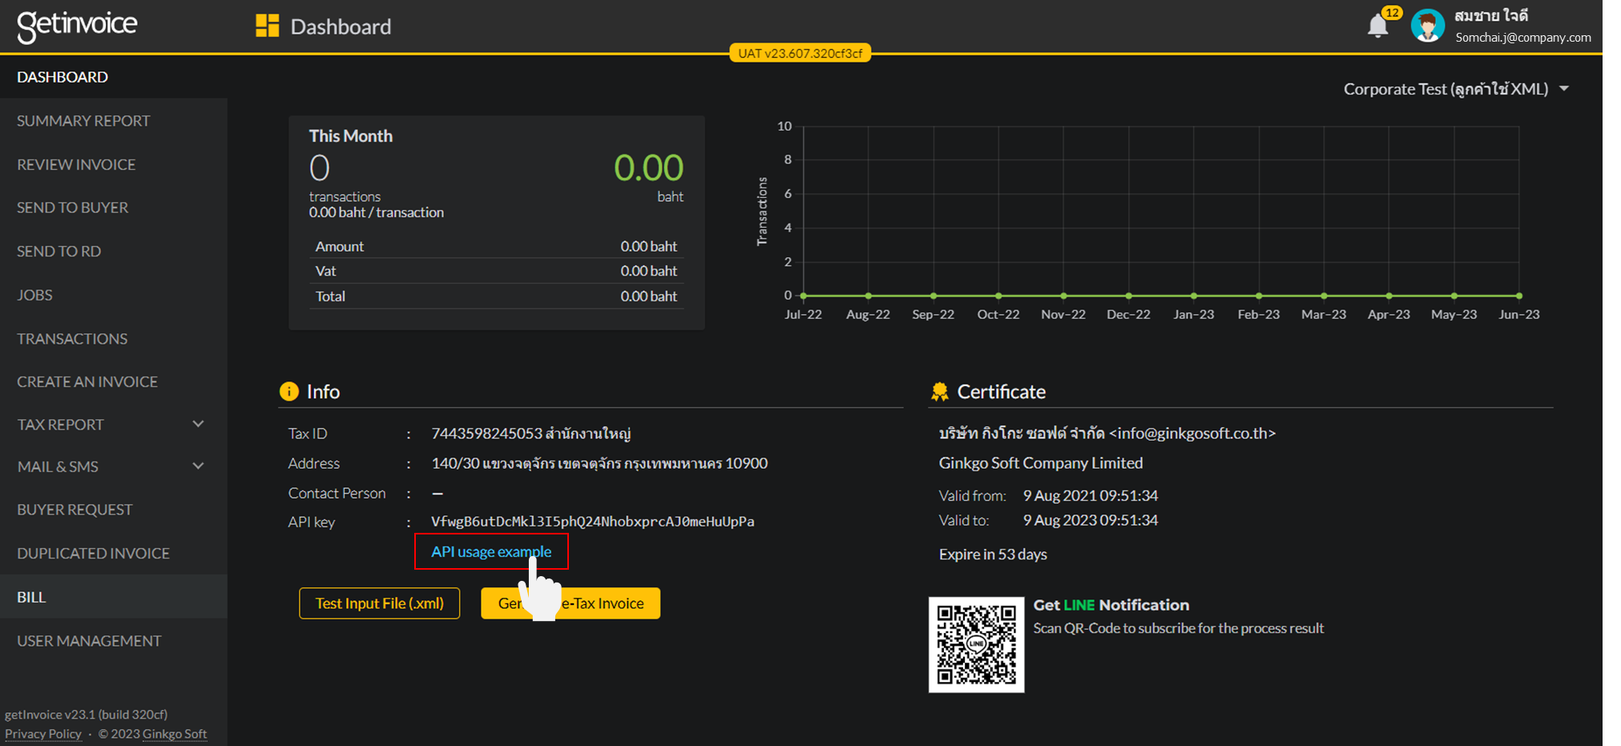
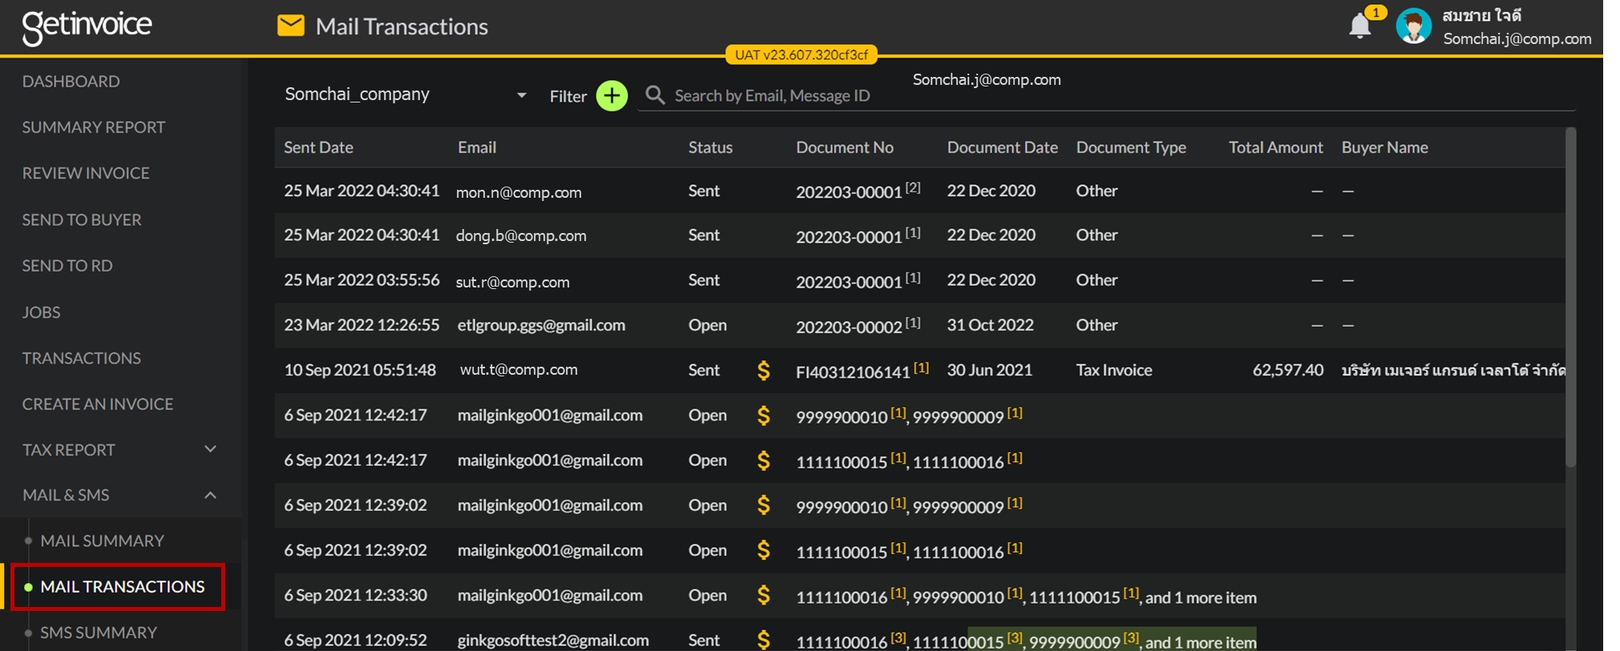
GITBOOK-15: 's Jun 22 changes

diff --git a/getinvoice/send-to-buyer/sms-1.md b/getinvoice/send-to-buyer/sms-1.md
@@ -18,20 +18,20 @@
 
 ตาราง : อธิบายข้อมูลหน้าจอ SEND TO BUYER
 
-| ลำดับ | คอลัมน์                                                                                          | รายละเอียด                                                                                                                                                                                                                                                                                                                                                                                                                                                                                                                                                                                                                   |
-| ----- | ------------------------------------------------------------------------------------------------ | ---------------------------------------------------------------------------------------------------------------------------------------------------------------------------------------------------------------------------------------------------------------------------------------------------------------------------------------------------------------------------------------------------------------------------------------------------------------------------------------------------------------------------------------------------------------------------------------------------------------------------- |
-| 1.    | Email                                                                                            | <p>สถานะการส่งอีเมลให้ลูกค้า<br> <img src="../../.gitbook/assets/image (49).png" alt="">คือ ส่งอีเมลสำเร็จ<br><img src="../../.gitbook/assets/image (36).png" alt=""> คือ ส่งอีเมลไม่สำเร็จ<br><img src="../../.gitbook/assets/image (6) (1).png" alt=""> คือ กำลังส่งอีเมล</p><p> <img src="../../.gitbook/assets/image (89).png" alt="">คือ รอส่งอีเมล<br> <img src="../../.gitbook/assets/image (22).png" alt="">คือ ไม่มีอีเมลผู้ซื้อ<br><img src="../../.gitbook/assets/image (96).png" alt=""> คือ Endpoint request timed out</p><p> <img src="../../.gitbook/assets/image (39).png" alt=""> คือ สถานะห้ามส่งอีเมล</p> |
-| 2.    | SMS                                                                                              | <p>สถานะการส่ง SMS ถึงลูกค้า<br><img src="../../.gitbook/assets/image (84).png" alt=""> คือ ส่ง SMS สำเร็จ<br> <img src="../../.gitbook/assets/image (73).png" alt=""> คือ ส่ง SMS ไม่สำเร็จ<br> <img src="../../.gitbook/assets/image (45).png" alt=""> คือ ไม่มีเบอร์โทรศัพท์</p><p> <img src="../../.gitbook/assets/image (79).png" alt=""> คือ สถานะห้ามส่ง SMS</p>                                                                                                                                                                                                                                                      |
-| 3.    | zDOX                                                                                             | <p>สถานะการอัปโหลดไฟล์ขึ้น zDOX ของลูกค้า<br><img src="../../.gitbook/assets/image (76).png" alt=""> คือ อัปโหลดขึ้น zDOX สำเร็จ<br> <img src="../../.gitbook/assets/image (13) (1).png" alt=""> คือ อัปโหลดขึ้น zDOX ไม่สำเร็จ</p><p><img src="../../.gitbook/assets/image (8) (1).png" alt=""> คือ ไม่มีอีเมล</p>                                                                                                                                                                                                                                                                                                          |
-| 4.    | ![](<../../.gitbook/assets/image (12) (1).png>) หรือ ![](<../../.gitbook/assets/image (94).png>) | ดูไฟล์ข้อมูล PDF หรือ XML                                                                                                                                                                                                                                                                                                                                                                                                                                                                                                                                                                                                    |
-| 5.    | Item ID                                                                                          | Auto Running getInvoice                                                                                                                                                                                                                                                                                                                                                                                                                                                                                                                                                                                                      |
-| 6.    | Document No.                                                                                     | หมายเลขเอกสาร                                                                                                                                                                                                                                                                                                                                                                                                                                                                                                                                                                                                                |
-| 7.    | Document Date                                                                                    | วันที่ออกหมายเลขเอกสาร                                                                                                                                                                                                                                                                                                                                                                                                                                                                                                                                                                                                       |
-| 8.    | Document Type                                                                                    | ประเภทเอกสาร                                                                                                                                                                                                                                                                                                                                                                                                                                                                                                                                                                                                                 |
-| 9.    | Total Amount                                                                                     | จำนวนเงินรวมภาษี                                                                                                                                                                                                                                                                                                                                                                                                                                                                                                                                                                                                             |
-| 10.   | Buyer Name                                                                                       | ชื่อลูกค้า                                                                                                                                                                                                                                                                                                                                                                                                                                                                                                                                                                                                                   |
-| 11.   | Buyer Email                                                                                      | อีเมลลูกค้า                                                                                                                                                                                                                                                                                                                                                                                                                                                                                                                                                                                                                  |
-| 12.   | Telephone Number                                                                                 | เบอร์โทรศัพท์ลูกค้า                                                                                                                                                                                                                                                                                                                                                                                                                                                                                                                                                                                                          |
-| 13.   | Generate Date                                                                                    | วันที่นำเข้าข้อมูล                                                                                                                                                                                                                                                                                                                                                                                                                                                                                                                                                                                                           |
-| 14.   | Source                                                                                           | ชื่อไฟล์ที่นำเข้า                                                                                                                                                                                                                                                                                                                                                                                                                                                                                                                                                                                                            |
-| 15.   | Error                                                                                            | ข้อความแจ้งเตือน                                                                                                                                                                                                                                                                                                                                                                                                                                                                                                                                                                                                             |
+| ลำดับ | คอลัมน์                                                                                          | รายละเอียด                                                                                                                                                                                                                                                                                                                                                                                                                                                                                                                                                                                                                       |
+| ----- | ------------------------------------------------------------------------------------------------ | -------------------------------------------------------------------------------------------------------------------------------------------------------------------------------------------------------------------------------------------------------------------------------------------------------------------------------------------------------------------------------------------------------------------------------------------------------------------------------------------------------------------------------------------------------------------------------------------------------------------------------- |
+| 1.    | Email                                                                                            | <p>สถานะการส่งอีเมลให้ลูกค้า<br> <img src="../../.gitbook/assets/image (49).png" alt="">คือ ส่งอีเมลสำเร็จ<br><img src="../../.gitbook/assets/image (36).png" alt=""> คือ ส่งอีเมลไม่สำเร็จ<br><img src="../../.gitbook/assets/image (6) (1) (1).png" alt=""> คือ กำลังส่งอีเมล</p><p> <img src="../../.gitbook/assets/image (89).png" alt="">คือ รอส่งอีเมล<br> <img src="../../.gitbook/assets/image (22).png" alt="">คือ ไม่มีอีเมลผู้ซื้อ<br><img src="../../.gitbook/assets/image (96).png" alt=""> คือ Endpoint request timed out</p><p> <img src="../../.gitbook/assets/image (39).png" alt=""> คือ สถานะห้ามส่งอีเมล</p> |
+| 2.    | SMS                                                                                              | <p>สถานะการส่ง SMS ถึงลูกค้า<br><img src="../../.gitbook/assets/image (84).png" alt=""> คือ ส่ง SMS สำเร็จ<br> <img src="../../.gitbook/assets/image (73).png" alt=""> คือ ส่ง SMS ไม่สำเร็จ<br> <img src="../../.gitbook/assets/image (45).png" alt=""> คือ ไม่มีเบอร์โทรศัพท์</p><p> <img src="../../.gitbook/assets/image (79).png" alt=""> คือ สถานะห้ามส่ง SMS</p>                                                                                                                                                                                                                                                          |
+| 3.    | zDOX                                                                                             | <p>สถานะการอัปโหลดไฟล์ขึ้น zDOX ของลูกค้า<br><img src="../../.gitbook/assets/image (76).png" alt=""> คือ อัปโหลดขึ้น zDOX สำเร็จ<br> <img src="../../.gitbook/assets/image (13) (1).png" alt=""> คือ อัปโหลดขึ้น zDOX ไม่สำเร็จ</p><p><img src="../../.gitbook/assets/image (8) (1).png" alt=""> คือ ไม่มีอีเมล</p>                                                                                                                                                                                                                                                                                                              |
+| 4.    | ![](<../../.gitbook/assets/image (12) (1).png>) หรือ ![](<../../.gitbook/assets/image (94).png>) | ดูไฟล์ข้อมูล PDF หรือ XML                                                                                                                                                                                                                                                                                                                                                                                                                                                                                                                                                                                                        |
+| 5.    | Item ID                                                                                          | Auto Running getInvoice                                                                                                                                                                                                                                                                                                                                                                                                                                                                                                                                                                                                          |
+| 6.    | Document No.                                                                                     | หมายเลขเอกสาร                                                                                                                                                                                                                                                                                                                                                                                                                                                                                                                                                                                                                    |
+| 7.    | Document Date                                                                                    | วันที่ออกหมายเลขเอกสาร                                                                                                                                                                                                                                                                                                                                                                                                                                                                                                                                                                                                           |
+| 8.    | Document Type                                                                                    | ประเภทเอกสาร                                                                                                                                                                                                                                                                                                                                                                                                                                                                                                                                                                                                                     |
+| 9.    | Total Amount                                                                                     | จำนวนเงินรวมภาษี                                                                                                                                                                                                                                                                                                                                                                                                                                                                                                                                                                                                                 |
+| 10.   | Buyer Name                                                                                       | ชื่อลูกค้า                                                                                                                                                                                                                                                                                                                                                                                                                                                                                                                                                                                                                       |
+| 11.   | Buyer Email                                                                                      | อีเมลลูกค้า                                                                                                                                                                                                                                                                                                                                                                                                                                                                                                                                                                                                                      |
+| 12.   | Telephone Number                                                                                 | เบอร์โทรศัพท์ลูกค้า                                                                                                                                                                                                                                                                                                                                                                                                                                                                                                                                                                                                              |
+| 13.   | Generate Date                                                                                    | วันที่นำเข้าข้อมูล                                                                                                                                                                                                                                                                                                                                                                                                                                                                                                                                                                                                               |
+| 14.   | Source                                                                                           | ชื่อไฟล์ที่นำเข้า                                                                                                                                                                                                                                                                                                                                                                                                                                                                                                                                                                                                                |
+| 15.   | Error                                                                                            | ข้อความแจ้งเตือน                                                                                                                                                                                                                                                                                                                                                                                                                                                                                                                                                                                                                 |

diff --git a/getinvoice/send-to-rd-the-revenue-department/export.md b/getinvoice/send-to-rd-the-revenue-department/export.md
@@ -14,17 +14,17 @@
 
 ตาราง : อธิบายข้อมูลหน้า SEND TO RD
 
-| ลำดับ | คอลัมน์                                     | รายละเอียด                                                                                                                                                                                                                                                                                                                                                                                                 |
-| ----- | ------------------------------------------- | ---------------------------------------------------------------------------------------------------------------------------------------------------------------------------------------------------------------------------------------------------------------------------------------------------------------------------------------------------------------------------------------------------------- |
-| 1.    | Sent                                        | <p>สถานะการส่งข้อมูลอิเล็กทรอนิกส์ไปที่สรรพากร<br><img src="../../.gitbook/assets/image (3) (1).png" alt=""> คือ ส่งสรรพากรสำเร็จ<br> <img src="../../.gitbook/assets/image (50).png" alt="">คือ ส่งสรรพากรไม่สำเร็จ<br> <img src="../../.gitbook/assets/image (27).png" alt="">คือ รอ Response จากสรรพากร<br> <img src="../../.gitbook/assets/image (28).png" alt="">คือ ผู้ใช้งานทำการ Reject รายการ</p> |
-| 2.    | ![](<../../.gitbook/assets/image (14).png>) | ดูไฟล์ข้อมูล XML                                                                                                                                                                                                                                                                                                                                                                                           |
-| 3.    | Item ID                                     | Auto Running getInvoice                                                                                                                                                                                                                                                                                                                                                                                    |
-| 4.    | Document No.                                | หมายเลขเอกสาร                                                                                                                                                                                                                                                                                                                                                                                              |
-| 5.    | Document Date                               | วันที่ออกหมายเลขเอกสาร                                                                                                                                                                                                                                                                                                                                                                                     |
-| 6.    | Document Type                               | ประเภทเอกสาร                                                                                                                                                                                                                                                                                                                                                                                               |
-| 7.    | Total Amount                                | จำนวนเงินรวมภาษี                                                                                                                                                                                                                                                                                                                                                                                           |
-| 8.    | Buyer Name                                  | ชื่อลูกค้า                                                                                                                                                                                                                                                                                                                                                                                                 |
-| 9.    | Tax ID                                      | เลขประจำตัวผู้เสียภาษีลูกค้า                                                                                                                                                                                                                                                                                                                                                                               |
-| 10.   | Generate Date                               | วันที่นำเข้าข้อมูล                                                                                                                                                                                                                                                                                                                                                                                         |
-| 11.   | Source                                      | ชื่อไฟล์ที่นำเข้า                                                                                                                                                                                                                                                                                                                                                                                          |
-| 12.   | Error                                       | ข้อความแจ้งเตือน                                                                                                                                                                                                                                                                                                                                                                                           |
+| ลำดับ | คอลัมน์                                     | รายละเอียด                                                                                                                                                                                                                                                                                                                                                                                                     |
+| ----- | ------------------------------------------- | -------------------------------------------------------------------------------------------------------------------------------------------------------------------------------------------------------------------------------------------------------------------------------------------------------------------------------------------------------------------------------------------------------------- |
+| 1.    | Sent                                        | <p>สถานะการส่งข้อมูลอิเล็กทรอนิกส์ไปที่สรรพากร<br><img src="../../.gitbook/assets/image (3) (1) (1).png" alt=""> คือ ส่งสรรพากรสำเร็จ<br> <img src="../../.gitbook/assets/image (50).png" alt="">คือ ส่งสรรพากรไม่สำเร็จ<br> <img src="../../.gitbook/assets/image (27).png" alt="">คือ รอ Response จากสรรพากร<br> <img src="../../.gitbook/assets/image (28).png" alt="">คือ ผู้ใช้งานทำการ Reject รายการ</p> |
+| 2.    | ![](<../../.gitbook/assets/image (14).png>) | ดูไฟล์ข้อมูล XML                                                                                                                                                                                                                                                                                                                                                                                               |
+| 3.    | Item ID                                     | Auto Running getInvoice                                                                                                                                                                                                                                                                                                                                                                                        |
+| 4.    | Document No.                                | หมายเลขเอกสาร                                                                                                                                                                                                                                                                                                                                                                                                  |
+| 5.    | Document Date                               | วันที่ออกหมายเลขเอกสาร                                                                                                                                                                                                                                                                                                                                                                                         |
+| 6.    | Document Type                               | ประเภทเอกสาร                                                                                                                                                                                                                                                                                                                                                                                                   |
+| 7.    | Total Amount                                | จำนวนเงินรวมภาษี                                                                                                                                                                                                                                                                                                                                                                                               |
+| 8.    | Buyer Name                                  | ชื่อลูกค้า                                                                                                                                                                                                                                                                                                                                                                                                     |
+| 9.    | Tax ID                                      | เลขประจำตัวผู้เสียภาษีลูกค้า                                                                                                                                                                                                                                                                                                                                                                                   |
+| 10.   | Generate Date                               | วันที่นำเข้าข้อมูล                                                                                                                                                                                                                                                                                                                                                                                             |
+| 11.   | Source                                      | ชื่อไฟล์ที่นำเข้า                                                                                                                                                                                                                                                                                                                                                                                              |
+| 12.   | Error                                       | ข้อความแจ้งเตือน                                                                                                                                                                                                                                                                                                                                                                                               |

diff --git a/SUMMARY.md b/SUMMARY.md
@@ -45,10 +45,13 @@
     * [Create Car Leasing Invoice](getinvoice/create-an-invoice/create-car-leasing-invoice.md)
     * [SETTINGS](getinvoice/create-an-invoice/settings.md)
   * [DUPLICATED INVOICE](getinvoice/duplicated-invoice.md)
-  * [MAIL](getinvoice/mail.md)
-  * [SMS](getinvoice/sms.md)
   * [SUMMARY REPORT](getinvoice/summary-report.md)
   * [TAX REPORT](getinvoice/tax-report.md)
+  * [MAIL & SMS](getinvoice/mail-and-sms/README.md)
+    * [MAIL SUMMARY](getinvoice/mail-and-sms/mail-summary.md)
+    * [MAIL TRANSACTIONS](getinvoice/mail-and-sms/mail-transactions.md)
+    * [SMS SUMMARY](getinvoice/mail-and-sms/sms-summary.md)
+    * [SMS TRANSACTIONS](getinvoice/mail-and-sms/sms-transactions.md)
   * [BUYER REQUEST](getinvoice/buyer-request.md)
   * [Convert to Full-Tax (สำหรับพนักงาน)](getinvoice/convert-to-full-tax.md)
   * [Convert to Full-Tax (สำหรับ Buyer)](getinvoice/convert-to-full-tax-buyer.md)
@@ -80,6 +83,8 @@
     * [การกรองข้อมูล (Filter)](undefined-1/tax-report/filter.md)
   * [เมนู MAIL & SMS](undefined-1/mail-and-sms/README.md)
     * [การกรองข้อมูล (Filter)](undefined-1/mail-and-sms/filter.md)
+  * [เมนู MAIL & SMS](undefined-1/mail-and-sms-1/README.md)
+    * [การกรองข้อมูล (Filter)](undefined-1/mail-and-sms-1/filter.md)
 * [จัดการโปรไฟล์](undefined-2/README.md)
   * [Profile Picture](undefined-2/profile-picture.md)
   * [Profile Name](undefined-2/profile-name.md)

diff --git a/undefined-1/send-to-buyer/filter.md b/undefined-1/send-to-buyer/filter.md
@@ -52,3 +52,11 @@
 6\)  Dropdown list ตัวเลือกสำหรับกำหนดค้นหาข้อมูล ได้แก่ Document No., Buyer Name, Email, Telephone และ Source
 
 <figure><img src="../../.gitbook/assets/image (223).png" alt=""><figcaption><p>Send to Buyer – ตัวเลือกสำหรับกำหนดค้นหาข้อมูล</p></figcaption></figure>
+
+7\) กรองข้อมูลตามสาขา หรือแผนก หากมีบริษัทมีหลายสาขา สามารถกรองข้อมูลตามสาขา หรือ แผนกได้ โดยเลือกที่สัญลักษณ์ <img src="../../.gitbook/assets/image (10).png" alt="" data-size="line"> จากนั้นเลือกกรอง Department จากนั้นเลือกแผนก หรือ สาขา ที่ต้องการ
+
+<mark style="color:purple;">(กรณีไม่มีแผนก หรือ สาขา Filter จะไม่ปรากฎหัวข้อ Department)</mark>
+
+<figure><img src="../../.gitbook/assets/image (6).png" alt=""><figcaption><p>Send to buyer - วิธีการเลือกตัวกรอง</p></figcaption></figure>
+
+<figure><img src="../../.gitbook/assets/image (4).png" alt=""><figcaption><p>Send to buyer - เลือก Department ใน Filter</p></figcaption></figure>

diff --git a/undefined-1/send-to-rd/filter.md b/undefined-1/send-to-rd/filter.md
@@ -27,3 +27,11 @@
 3\)       Dropdown list ตัวเลือกสำหรับกำหนดค้นหาข้อมูล ได้แก่ Document No., Buyer Name, Tax ID และ Source
 
 <figure><img src="../../.gitbook/assets/image (279).png" alt=""><figcaption><p>Send to RD – ตัวเลือกสำหรับกำหนดค้นหาข้อมูล</p></figcaption></figure>
+
+4\) กรองข้อมูลตามสาขา หรือแผนก หากมีบริษัทมีหลายสาขา สามารถกรองข้อมูลตามสาขา หรือ แผนกได้ โดยเลือกที่สัญลักษณ์ <img src="../../.gitbook/assets/image (10).png" alt="" data-size="line"> จากนั้นเลือกกรอง Department จากนั้นเลือกแผนก หรือ สาขา ที่ต้องการ
+
+<mark style="color:purple;">(กรณีไม่มีแผนก หรือ สาขา Filter จะไม่ปรากฎหัวข้อ Department)</mark>
+
+<figure><img src="../../.gitbook/assets/image (9).png" alt=""><figcaption><p>Send to RD - วิธีการเลือกตัวกรอง</p></figcaption></figure>
+
+<figure><img src="../../.gitbook/assets/image (8).png" alt=""><figcaption><p>Send to RD - เลือก Department ใน Filter</p></figcaption></figure>

diff --git a/getinvoice/send-to-rd-the-revenue-department/undefined.md b/getinvoice/send-to-rd-the-revenue-department/undefined.md
@@ -14,7 +14,7 @@
 
 <figure><img src="../../.gitbook/assets/image (99).png" alt=""><figcaption><p>หน้าจอ Send to RD - กรณีส่ง RD ไม่สำเร็จ</p></figcaption></figure>
 
-<figure><img src="../../.gitbook/assets/image (5) (1).png" alt=""><figcaption><p>หน้าจอ Send to RD - กรณีส่ง RD ไม่สำเร็จ ตรวจสอบ Error</p></figcaption></figure>
+<figure><img src="../../.gitbook/assets/image (5) (1) (1).png" alt=""><figcaption><p>หน้าจอ Send to RD - กรณีส่ง RD ไม่สำเร็จ ตรวจสอบ Error</p></figcaption></figure>
 
 ผู้ใช้งานระบบสามารถดาวน์โหลดไฟล์ XML ได้ โดยกดที่สัญลักษณ์ ![](<../../.gitbook/assets/image (1) (1).png>) เพื่อนำไฟล์ XML มาตรวจสอบโครงสร้างตามมาตรฐานกรมสรรพากรได้ และสามารถดาวน์โหลดไฟล์ PDF ได้ โดยกดที่สัญลักษณ์ ![](<../../.gitbook/assets/image (93).png>) เมื่อผู้ใช้งานกดเลือกรายการ แล้วกดปุ่ม Send to RD ระบบจะทำการส่งข้อมูลไปยังกรมสรรพากร
 

diff --git a/getinvoice/transactions/api-download-document.md b/getinvoice/transactions/api-download-document.md
@@ -13,17 +13,17 @@
 
 1.1 {domain} ตัวอย่างตามภาพ
 
-<figure><img src="../../.gitbook/assets/image (5).png" alt=""><figcaption><p>ตัวอย่างภาพ Domain</p></figcaption></figure>
+<figure><img src="../../.gitbook/assets/image (5) (1).png" alt=""><figcaption><p>ตัวอย่างภาพ Domain</p></figcaption></figure>
 
 1.2 {api\_key}
 
 Log in เข้าสู่ getInvoice จากนั้นเลือกแท็บ Dashboard จากนั้น เลือกที่ "API usage example"&#x20;
 
-<figure><img src="../../.gitbook/assets/image (3).png" alt=""><figcaption><p>ภาพวิธีค้นหา API</p></figcaption></figure>
+<figure><img src="../../.gitbook/assets/image (3) (1).png" alt=""><figcaption><p>ภาพวิธีค้นหา API</p></figcaption></figure>
 
 จะปรากฎหน้าต่าง REST API  ให้ท่านคัดลอกข้อมูล X-API-KEY (ตามกรอบสีแดงในภาพ) เพื่อใช้เป็นข้อมูล {api\_key}
 
-<figure><img src="../../.gitbook/assets/image (1).png" alt=""><figcaption><p>หน้าจอ  REST API  </p></figcaption></figure>
+<figure><img src="../../.gitbook/assets/image (1) (2).png" alt=""><figcaption><p>หน้าจอ  REST API  </p></figcaption></figure>
 
 1.3 {transaction\_id}
 

diff --git a/getinvoice/mail-and-sms/mail-transactions.md b/getinvoice/mail-and-sms/mail-transactions.md
@@ -1,0 +1,5 @@
+# MAIL TRANSACTIONS
+
+ท่านกดเข้าไปที่ เมนู MAIL TRANSACTIONS ระบบจะแสดงรายละเอียดทั้งหมดระดับ Transaction ที่จัดส่งใบกำกับภาษีอิเล็กทรอนิกส์และใบรับอิเล็กทรอนิกส์ให้ลูกค้าทาง Email ซึ่งรายการที่มีการคิดค่าใช้จ่ายเพิ่มเติม จะแสดงไอคอนเป็นรูป ![](<../../.gitbook/assets/image (490).png>) (ดังภาพด้านล่าง)
+
+<figure><img src="../../.gitbook/assets/image (3).png" alt=""><figcaption><p>หน้าจอ MAIL TRANSACTIONS - รายละเอียดข้อมูลส่ง MAIL</p></figcaption></figure>

diff --git a/getinvoice/create-an-invoice/create-invoice.md b/getinvoice/create-an-invoice/create-invoice.md
@@ -53,7 +53,7 @@
 
 <figure><img src="../../.gitbook/assets/image (95).png" alt=""><figcaption><p>Create Invoice – ค้นหาหรือกรอกข้อมูล Items</p></figcaption></figure>
 
-<figure><img src="../../.gitbook/assets/image (4) (1).png" alt=""><figcaption><p>Create Invoice – เพิ่มข้อมูล Items</p></figcaption></figure>
+<figure><img src="../../.gitbook/assets/image (4) (1) (1).png" alt=""><figcaption><p>Create Invoice – เพิ่มข้อมูล Items</p></figcaption></figure>
 
 8. ประเภท Debit Note และ Credit Note สามารถกำหนดให้กรอก Old Price และ New Price ได้โดยกำหนดตั้งค่าใน Default Setting ให้เรียบร้อยก่อนสร้าง
 

diff --git a/getinvoice/mail-and-sms/sms-summary.md b/getinvoice/mail-and-sms/sms-summary.md
@@ -1,0 +1,5 @@
+# SMS SUMMARY
+
+ผู้ใช้งานสามารถดูรายการจัดส่งใบกำกับภาษีอิเล็กทรอนิกส์และใบรับอิเล็กทรอนิกส์ให้ลูกค้าผ่านช่องทาง SMS ได้ โดยเข้าที่เมนู SMS SUMMARY (ดังภาพด้านล่าง) สามารถเลือกดูได้ตามเดือน&#x20;
+
+<figure><img src="../../.gitbook/assets/image (5).png" alt=""><figcaption><p>หน้าจอ SMS SUMMARY</p></figcaption></figure>

diff --git a/getinvoice/mail-and-sms/mail-summary.md b/getinvoice/mail-and-sms/mail-summary.md
@@ -1,0 +1,5 @@
+# MAIL SUMMARY
+
+ผู้ใช้งานสามารถดูรายการจัดส่งใบกำกับภาษีอิเล็กทรอนิกส์และใบรับอิเล็กทรอนิกส์ให้ลูกค้าได้ โดยเข้าที่เมนู MAIL SUMMARY (ดังภาพด้านล่าง) สามารถเลือกดูได้ตามเดือนที่ต้องการ
+
+<figure><img src="../../.gitbook/assets/image.png" alt=""><figcaption><p>หน้าจอ MAIL SUMMARY</p></figcaption></figure>
